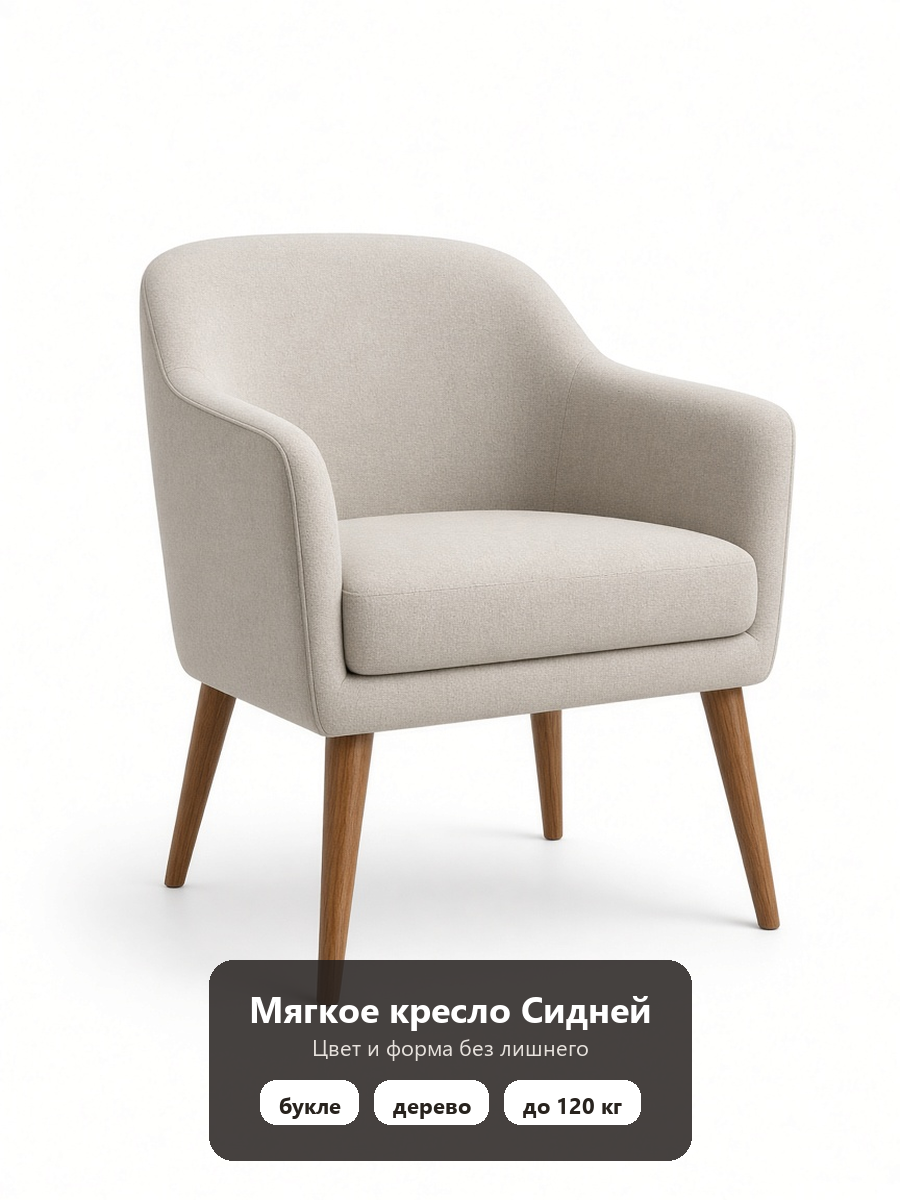
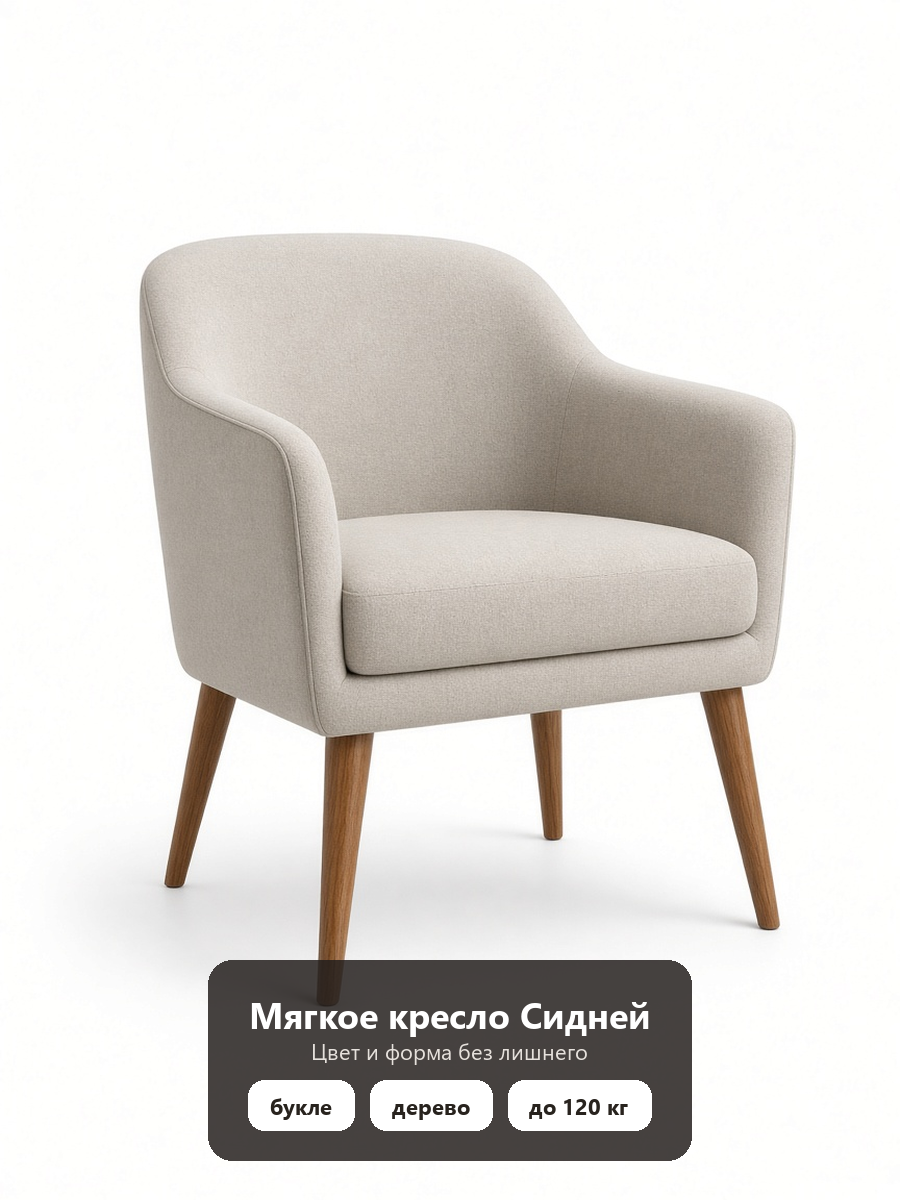
Polish marketplace case1 slides and drop em dashes from page titles.

Changed region(s): [[0.28, 0.8325, 0.7467, 0.9558]]

diff --git a/public/marketplace/index.html b/public/marketplace/index.html
@@ -3,7 +3,7 @@
 <head>
   <meta charset="UTF-8">
   <meta name="viewport" content="width=device-width, initial-scale=1.0">
-  <title>Ринат — карточки товаров для Wildberries и Ozon</title>
+  <title>Ринат · карточки товаров для Wildberries и Ozon</title>
   <meta name="description" content="Собираю понятные карточки товаров для Wildberries и Ozon: обложка, характеристики, выгоды и детали. Примеры сделаны по типовым задачам продавцов.">
   <link rel="preload" href="../fonts/manrope-400-800-cyrillic.woff2" as="font" type="font/woff2" crossorigin>
   <link rel="preload" href="../fonts/manrope-400-800-latin.woff2" as="font" type="font/woff2" crossorigin>
@@ -62,7 +62,7 @@
           <div class="mp-hero-stack" aria-hidden="true">
             <img class="mp-hero-stack__card mp-hero-stack__card--back" src="../images/marketplace/case5/01_cover.jpg?v=20261027m" alt="" width="450" height="600" decoding="async">
             <img class="mp-hero-stack__card mp-hero-stack__card--mid" src="../images/marketplace/case4/01_cover_pyramid.jpg" alt="" width="450" height="600" decoding="async">
-            <img class="mp-hero-stack__card mp-hero-stack__card--front" src="../images/marketplace/case1/01_cover_interior.png?v=20261027n" alt="" width="450" height="600" decoding="async">
+            <img class="mp-hero-stack__card mp-hero-stack__card--front" src="../images/marketplace/case1/01_cover_interior.png?v=20261106a" alt="" width="450" height="600" decoding="async">
           </div>
           <p class="mp-hero-stack__caption">Пять учебных примеров · формат 3:4</p>
         </div>
@@ -92,13 +92,13 @@
         </div>
 
         <div class="mp-slides mp-slides--expandable" id="chairSlides" data-expandable>
-          <figure class="mp-slide"><img src="../images/marketplace/case1/01_cover_interior.png?v=20261027n" alt="Обложка, интерьер" loading="lazy" width="450" height="600"><figcaption>01 · обложка</figcaption></figure>
+          <figure class="mp-slide"><img src="../images/marketplace/case1/01_cover_interior.png?v=20261106a" alt="Обложка, интерьер" loading="lazy" width="450" height="600"><figcaption>01 · обложка</figcaption></figure>
           <figure class="mp-slide"><img src="../images/marketplace/case1/02_dimensions.png?v=20261027f" alt="Габариты" loading="lazy" width="450" height="600"><figcaption>02 · габариты</figcaption></figure>
           <figure class="mp-slide"><img src="../images/marketplace/case1/03_fabric_detail.png" alt="Ткань" loading="lazy" width="450" height="600"><figcaption>03 · ткань</figcaption></figure>
-          <figure class="mp-slide mp-slide--more"><img src="../images/marketplace/case1/04_benefits.png?v=20261027f" alt="Преимущества" loading="lazy" width="450" height="600"><figcaption>04 · выгоды</figcaption></figure>
-          <figure class="mp-slide mp-slide--more"><img src="../images/marketplace/case1/05_studio_product.png?v=20261027" alt="Студия" loading="lazy" width="450" height="600"><figcaption>05 · студия</figcaption></figure>
+          <figure class="mp-slide mp-slide--more"><img src="../images/marketplace/case1/04_benefits.png?v=20261106h" alt="Преимущества" loading="lazy" width="450" height="600"><figcaption>04 · выгоды</figcaption></figure>
+          <figure class="mp-slide mp-slide--more"><img src="../images/marketplace/case1/05_studio_product.png?v=20261106b" alt="Студия" loading="lazy" width="450" height="600"><figcaption>05 · студия</figcaption></figure>
           <figure class="mp-slide mp-slide--more"><img src="../images/marketplace/case1/06_care_structure.png?v=20261027" alt="Уход и комплектация" loading="lazy" width="450" height="600"><figcaption>06 · уход</figcaption></figure>
-          <figure class="mp-slide mp-slide--more"><img src="../images/marketplace/case1/07_compare.png?v=20261027f" alt="Сравнение с типичным" loading="lazy" width="450" height="600"><figcaption>07 · сравнение</figcaption></figure>
+          <figure class="mp-slide mp-slide--more"><img src="../images/marketplace/case1/07_compare.png?v=20261106c" alt="Сравнение с обычным креслом" loading="lazy" width="450" height="600"><figcaption>07 · сравнение</figcaption></figure>
         </div>
         <button type="button" class="btn btn--ghost mp-slides-more" data-expand-target="chairSlides" aria-expanded="false">Показать все 7 слайдов</button>
 
@@ -125,7 +125,7 @@
                       <li><strong>Товар</strong> — мягкий стул, линейки Сидней / Нью-Йорк; геометрию, швы, ножки и цвет ткани не искажать.</li>
                       <li><strong>Визуал</strong> — светлый, тёплый, без ярких плашек и перегруженного фона; интерьер и свет можно собирать в AI.</li>
                       <li><strong>Крупные планы</strong> — опираться на реальное фото стула; окружение и сцены использования — генерация.</li>
-                      <li><strong>Итог</strong> — серия слайдов для WB/Ozon: обложка, размеры, ткань, выгоды, студия, уход, сравнение с типичным.</li>
+                      <li><strong>Итог</strong> — серия слайдов для WB/Ozon: обложка, размеры, ткань, выгоды, студия, уход, сравнение с обычным креслом.</li>
                     </ul>
                   </div>
                   <div class="mp-deep__col">
@@ -137,7 +137,7 @@
                       <li><strong>Выгоды</strong><span>Короткие тезисы на кадре, без стены плашек.</span></li>
                       <li><strong>Студия</strong><span>Чистый предметный кадр на нейтральном фоне.</span></li>
                       <li><strong>Комплектация и уход</strong><span>Фото + текст: что в коробке и как ухаживать.</span></li>
-                      <li><strong>Сравнение</strong><span>Сидней vs типичный вариант — без названий конкурентов.</span></li>
+                      <li><strong>Сравнение</strong><span>Сидней vs обычное кресло — без названий конкурентов.</span></li>
                     </ol>
                   </div>
                 </div>
@@ -152,7 +152,7 @@
                     </figure>
                     <span class="mp-compare__arrow" aria-hidden="true">→</span>
                     <figure class="mp-compare__card">
-                      <img src="../images/marketplace/case1/01_cover_interior.png?v=20261027n" alt="Финал: обложка карточки" loading="lazy" width="450" height="600">
+                      <img src="../images/marketplace/case1/01_cover_interior.png?v=20261106a" alt="Финал: обложка карточки" loading="lazy" width="450" height="600">
                       <figcaption>Слайд 01 · обложка в карточке</figcaption>
                     </figure>
                   </div>
@@ -163,7 +163,7 @@
                     </figure>
                     <span class="mp-compare__arrow" aria-hidden="true">→</span>
                     <figure class="mp-compare__card">
-                      <img src="../images/marketplace/case1/05_studio_product.png?v=20261027" alt="Финал: студийный слайд" loading="lazy" width="450" height="600">
+                      <img src="../images/marketplace/case1/05_studio_product.png?v=20261106b" alt="Финал: студийный слайд" loading="lazy" width="450" height="600">
                       <figcaption>Слайд 05 · в комплекте с инфографикой</figcaption>
                     </figure>
                   </div>

diff --git a/public/index.html b/public/index.html
@@ -3,7 +3,7 @@
 <head>
   <meta charset="UTF-8">
   <meta name="viewport" content="width=device-width, initial-scale=1.0">
-  <title>Ринат — боты и сайты, которые не теряют заявки</title>
+  <title>Ринат · боты и сайты, которые не теряют заявки</title>
   <meta name="description" content="Telegram-боты и сайты для бизнеса: клиент оставляет заявку, менеджер сразу получает её в Telegram или таблице. Запуск и инструкция — на мне.">
   <meta name="referrer" content="strict-origin-when-cross-origin">
   <link rel="preload" href="fonts/manrope-400-800-cyrillic.woff2" as="font" type="font/woff2" crossorigin>

diff --git a/public/showcase/mp/index.html b/public/showcase/mp/index.html
@@ -131,7 +131,7 @@
         </div>
         <div class="mp-slides">
           <figure class="mp-slide"><img src="../../images/marketplace/case1/02_dimensions.png?v=20261027f" alt="" loading="lazy" width="450" height="600"></figure>
-          <figure class="mp-slide"><img src="../../images/marketplace/case1/04_benefits.png?v=20261027f" alt="" loading="lazy" width="450" height="600"></figure>
+          <figure class="mp-slide"><img src="../../images/marketplace/case1/04_benefits.png?v=20261106h" alt="" loading="lazy" width="450" height="600"></figure>
           <figure class="mp-slide"><img src="../../images/marketplace/case1/07_compare.png?v=20261027f" alt="" loading="lazy" width="450" height="600"></figure>
         </div>
       </article>

diff --git a/public/showcase/index.html b/public/showcase/index.html
@@ -3,7 +3,7 @@
 <head>
   <meta charset="UTF-8">
   <meta name="viewport" content="width=device-width, initial-scale=1.0">
-  <title>Ринат — примеры работ (портфолио)</title>
+  <title>Ринат · примеры работ (портфолио)</title>
   <meta name="description" content="Примеры сайтов и Telegram-ботов под заявки: живые демо, сценарии, кейсы с GitHub. Без контактов — для отклика на Kwork.">
   <meta name="robots" content="noindex">
   <link rel="preload" href="../fonts/manrope-400-800-cyrillic.woff2" as="font" type="font/woff2" crossorigin>

diff --git a/scripts/mp_layout_kit/fix_round2.py b/scripts/mp_layout_kit/fix_round2.py
@@ -133,10 +133,17 @@ def chair_05():
     # measure content width for compact centered panel
     tw = d.textlength(title, font=f_title)
     sw = d.textlength(sub, font=f_sub)
-    chip_ws = [d.textlength(c, font=f_chip) + 36 for c in chips]
-    chips_total = sum(chip_ws) + 16 * (len(chips) - 1)
+    chip_pad_x, chip_pad_y = 22, 14
+    chip_boxes = []
+    for c in chips:
+        bb = d.textbbox((0, 0), c, font=f_chip)
+        cw = (bb[2] - bb[0]) + chip_pad_x * 2
+        ch = (bb[3] - bb[1]) + chip_pad_y * 2
+        chip_boxes.append((c, cw, ch))
+    chip_h = max(ch for _, _, ch in chip_boxes)
+    chips_total = sum(cw for _, cw, _ in chip_boxes) + 16 * (len(chips) - 1)
     content_w = max(tw, sw, chips_total)
-    pad_x, pad_y = 40, 28
+    pad_x = 40
     panel_w = int(content_w + pad_x * 2)
     panel_h = 200
     px0 = (W - panel_w) // 2
@@ -145,14 +152,21 @@ def chair_05():
     out = Image.alpha_composite(out, overlay)
     draw = ImageDraw.Draw(out)
 
-    draw.text((px0 + (panel_w - tw) / 2, py0 + 24), title, font=f_title, fill=(255, 255, 255))
-    draw.text((px0 + (panel_w - sw) / 2, py0 + 72), sub, font=f_sub, fill=(230, 225, 220))
+    draw.text((px0 + panel_w / 2, py0 + 42), title, font=f_title, fill=(255, 255, 255), anchor="mt")
+    draw.text((px0 + panel_w / 2, py0 + 83), sub, font=f_sub, fill=(230, 225, 220), anchor="mt")
 
     x = px0 + (panel_w - chips_total) / 2
     cy = py0 + 120
-    for chip, cw in zip(chips, chip_ws):
-        draw.rounded_rectangle((x, cy, x + cw, cy + 44), 16, fill=(255, 255, 255))
-        draw.text((x + 18, cy + 10), chip, font=f_chip, fill=(40, 35, 30))
+    for chip, cw, _ in chip_boxes:
+        draw.rounded_rectangle((x, cy, x + cw, cy + chip_h), 16, fill=(255, 255, 255))
+        # anchor=mm + slight optical nudge (Segoe Cyrillic reads high/right)
+        draw.text(
+            (x + cw / 2 - 0.5, cy + chip_h / 2 + 1.5),
+            chip,
+            font=f_chip,
+            fill=(40, 35, 30),
+            anchor="mm",
+        )
         x += cw + 16
 
     out.convert("RGB").save(IMG / "case1" / "05_studio_product.png", optimize=True)
@@ -207,21 +221,21 @@ def chair_07():
     draw = ImageDraw.Draw(out)
 
     text_center(draw, "В чём разница", 48, fnt(44, True), ink)
-    text_center(draw, "это кресло и типичный вариант", 112, fnt(24), muted)
+    text_center(draw, "наше и обычное кресло", 112, fnt(24), muted)
 
     thumb = fit_contain(studio, (300, 280), pad=0.88, bg=(250, 247, 242))
     paste_rounded(out, thumb, ((W - 300) // 2, 165), 22)
 
     draw.rounded_rectangle((40, 490, 440, 1145), 28, fill=(255, 255, 255))
     draw.rounded_rectangle((460, 490, 860, 1145), 28, fill=(252, 245, 242))
-    draw.text((80, 520), "Это кресло", font=fnt(30, True), fill=(46, 125, 80))
-    draw.text((500, 520), "Типичный вариант", font=fnt(26, True), fill=(180, 70, 60))
+    draw.text((80, 520), "Наше кресло", font=fnt(30, True), fill=(46, 125, 80))
+    draw.text((500, 520), "Обычное кресло", font=fnt(26, True), fill=(180, 70, 60))
 
     rows = [
-        ("выдерживает до 120 кг", "часто до 80–90 кг"),
+        ("выдерживает до 120 кг", "обычно до 80–90 кг"),
         ("мягкая ткань букле", "гладкая синтетика"),
-        ("высота сиденья 45 см", "часто ниже или не пишут"),
-        ("ножки из дерева", "часто пластик"),
+        ("высота сиденья 45 см", "высота не указывается"),
+        ("ножки из дерева", "обычно из пластика"),
     ]
     y = 610
     for ours, theirs in rows:
@@ -395,14 +409,14 @@ def update_copy():
     }
     data["case1_chair"]["07_compare"] = {
         "title": "В чём разница",
-        "sub": "это кресло и типичный вариант",
-        "ours_label": "Это кресло",
-        "theirs_label": "Типичный вариант",
+        "sub": "наше и обычное кресло",
+        "ours_label": "Наше кресло",
+        "theirs_label": "Обычное кресло",
         "rows": [
-            ["выдерживает до 120 кг", "часто до 80–90 кг"],
+            ["выдерживает до 120 кг", "обычно до 80–90 кг"],
             ["мягкая ткань букле", "гладкая синтетика"],
-            ["высота сиденья 45 см", "часто ниже или не пишут"],
-            ["ножки из дерева", "часто пластик"],
+            ["высота сиденья 45 см", "высота не указывается"],
+            ["ножки из дерева", "обычно из пластика"],
         ],
     }
     data["case2_shelf"]["02_lifestyle"] = {
